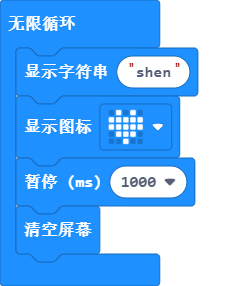
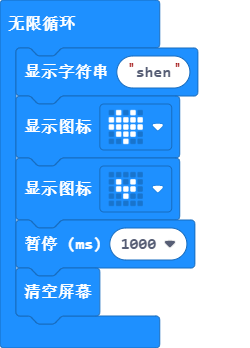
编辑桃心

Changed region(s): [[0.028, 0.028, 0.812, 0.951]]

diff --git a/main.ts b/main.ts
@@ -1,6 +1,7 @@
 basic.forever(function () {
     basic.showString("shen")
     basic.showIcon(IconNames.Heart)
+    basic.showIcon(IconNames.SmallHeart)
     basic.pause(1000)
     basic.clearScreen()
 })
